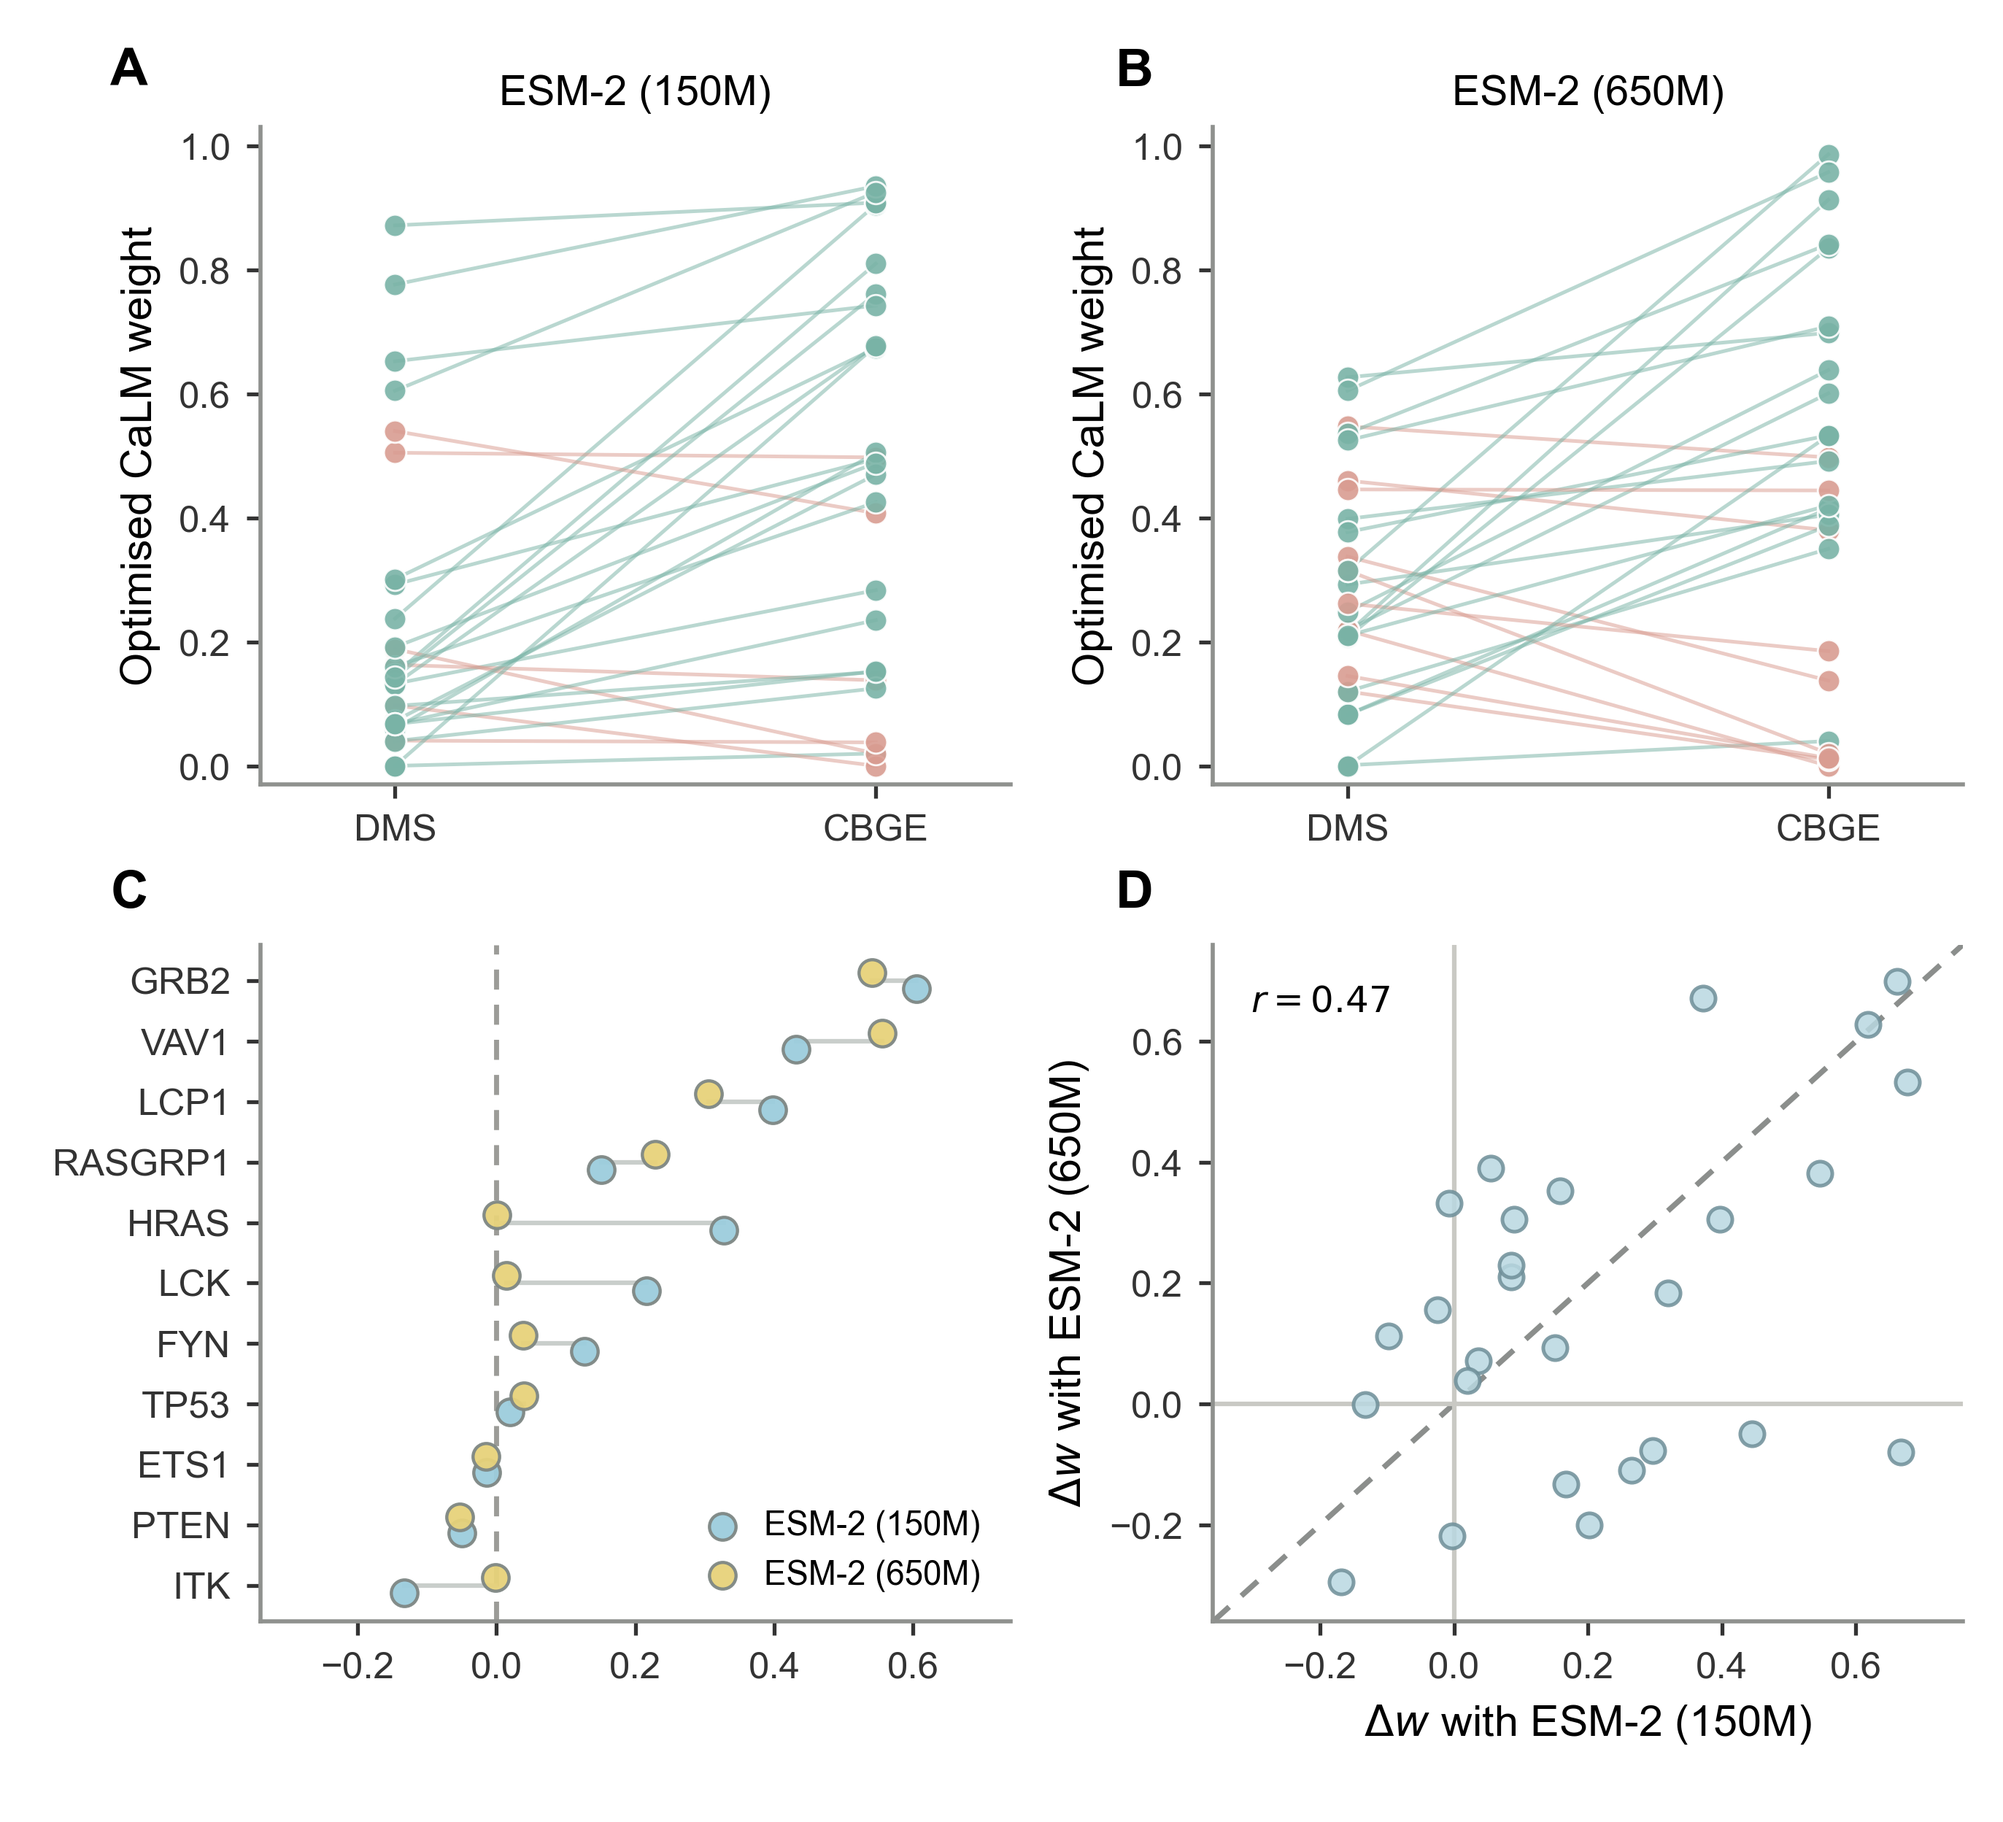
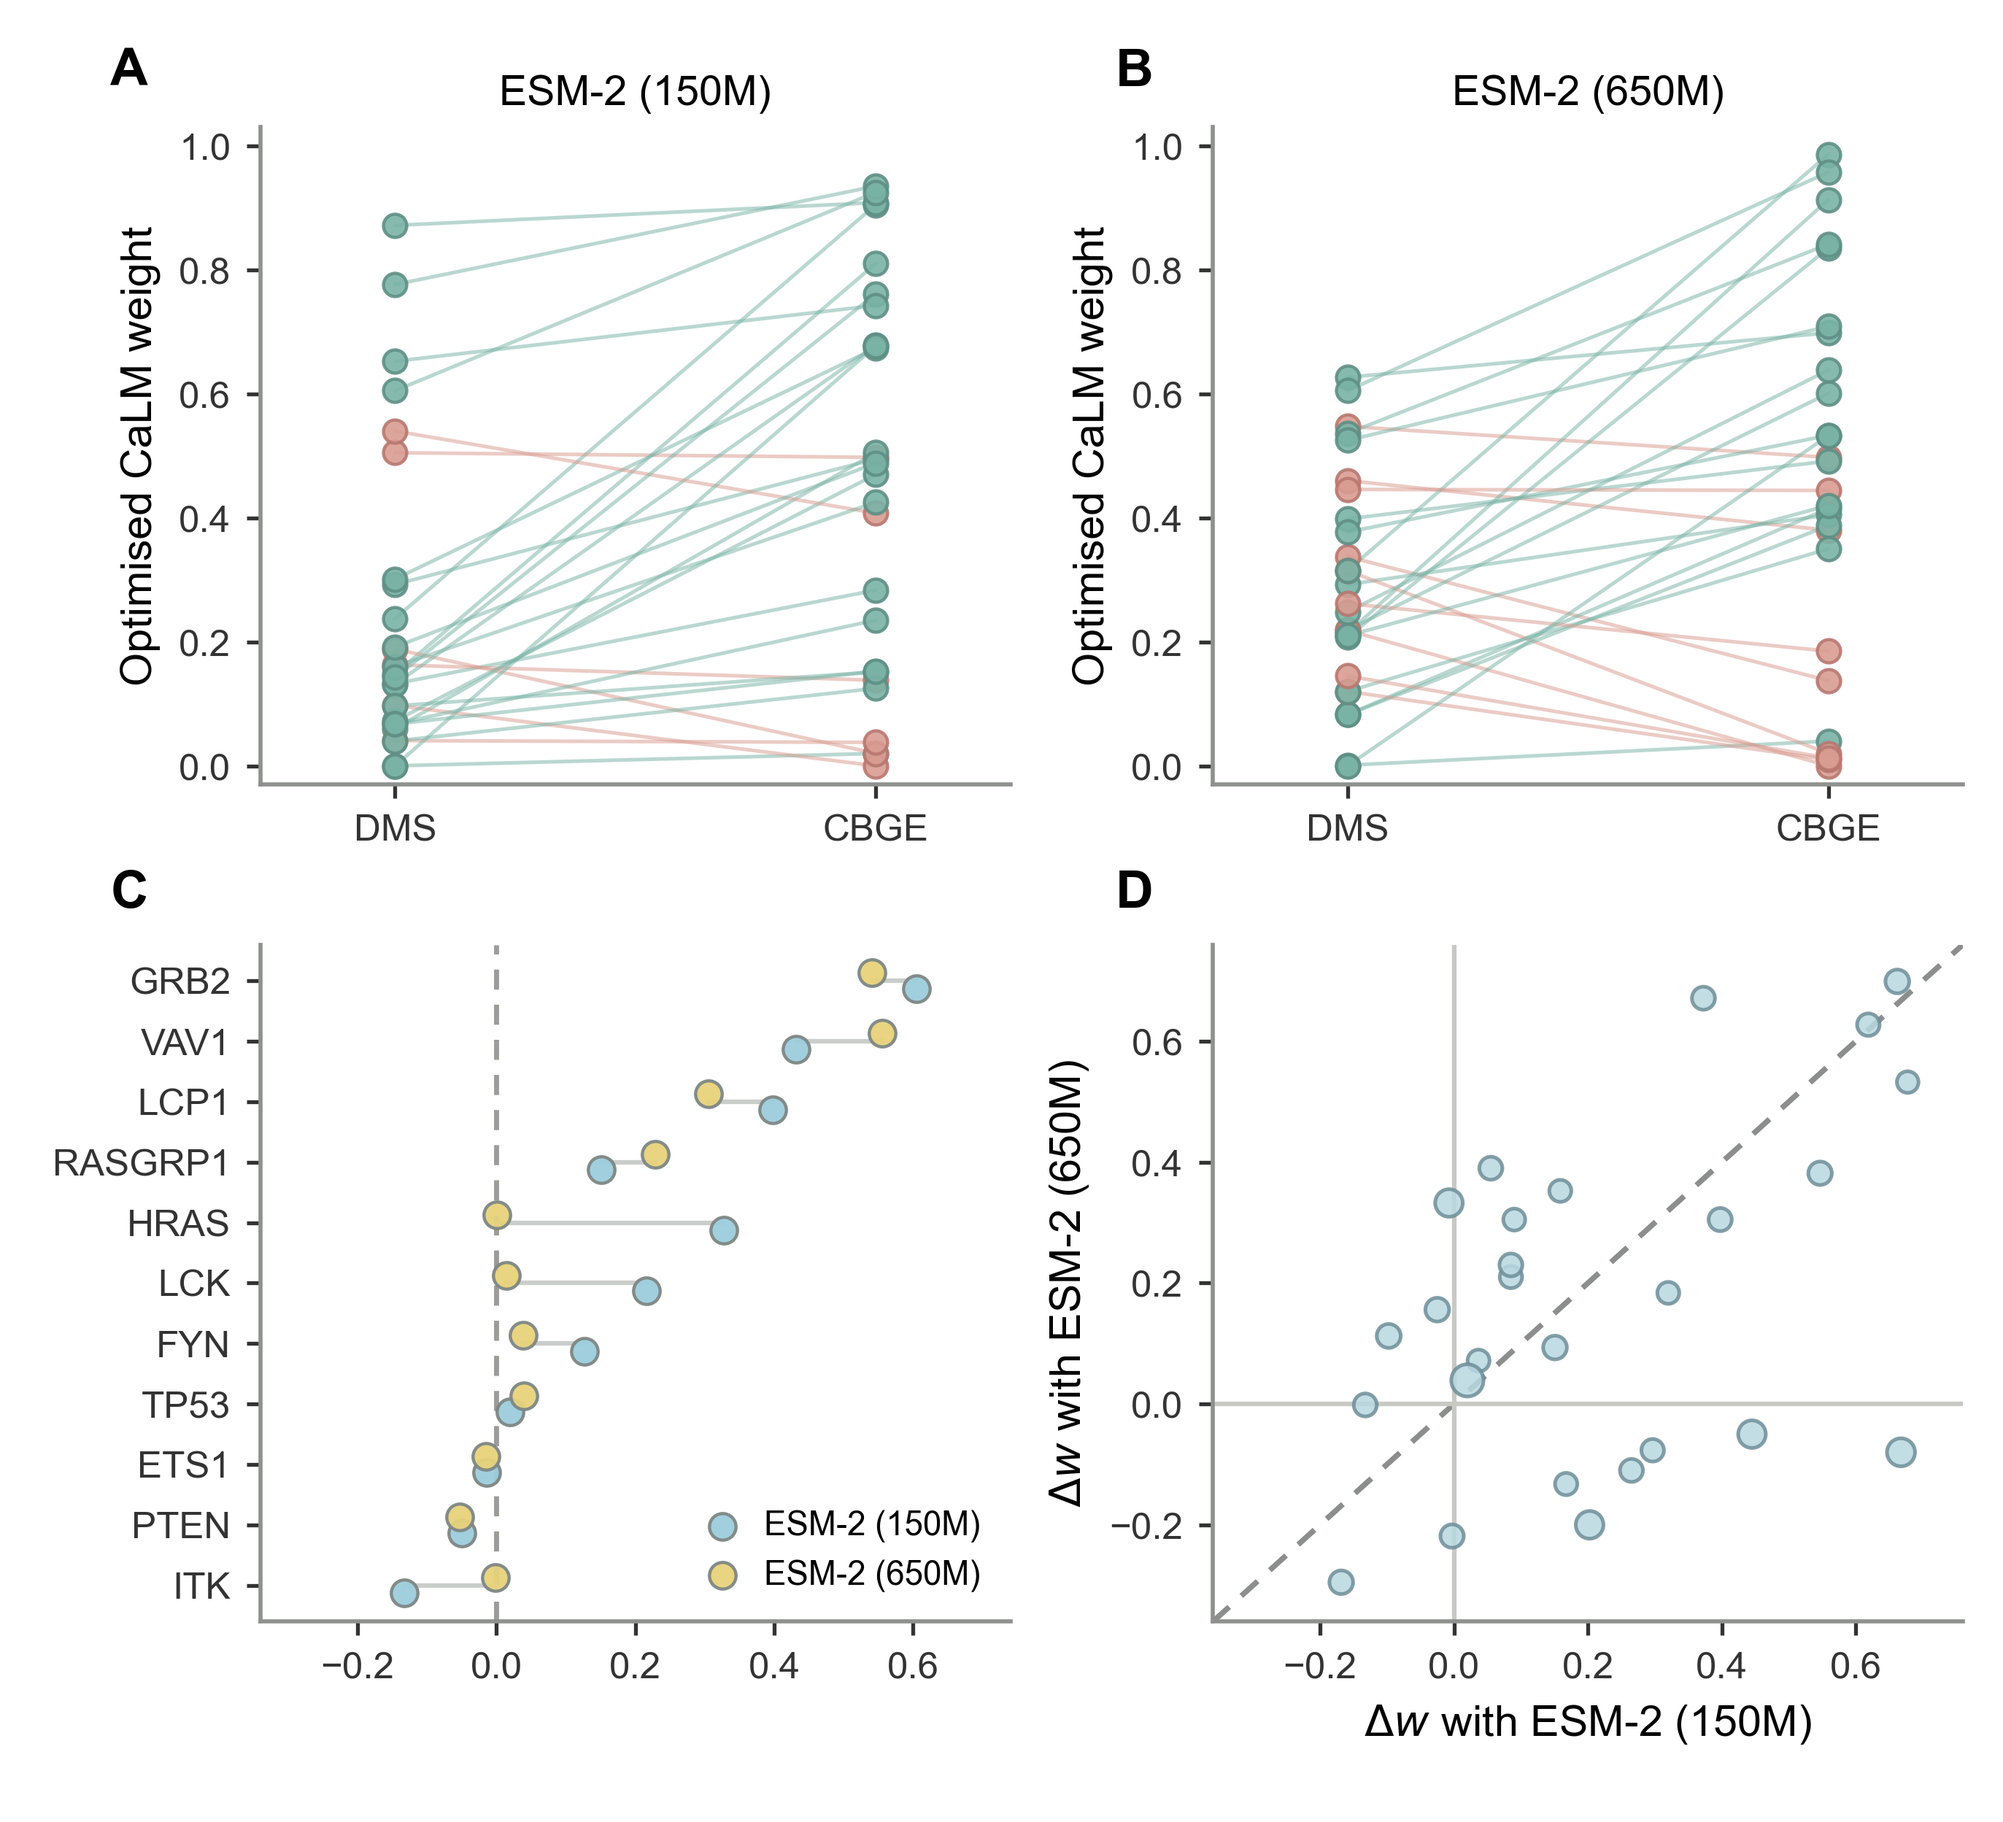
Update Figures

diff --git a/plot/main/fig6.py b/plot/main/fig6.py
@@ -30,7 +30,7 @@ GENE_POINT = "#A9BEC6"
 GENE_LINE = "#5F5F5B"
 LOWESS_LINE = "#9FCFB7"
 SAGE = "#C7DCC1"
-YELLOW = "#E9DFA7"
+YELLOW = "#F3EBC4"
 LILAC = "#D8CAE8"
 TEAL = "#A9D8D1"
 
@@ -106,6 +106,7 @@ def scatter_with_fit(
     color: str,
     stat_mode: str = "ols",
     show_lowess: bool = False,
+    show_stats: bool = True,
 ) -> None:
     reg = df.dropna(subset=[x_col, y_col, "n"]).copy()
     size = np.clip(np.sqrt(reg["n"].to_numpy(float)) * 4.2, 10, 48)
@@ -143,17 +144,18 @@ def scatter_with_fit(
         note = rf"$\rho={rho:.2f}$" + "\n" + p_math(float(rho_p)) + "\n" + rf"$\beta_{{OLS}}={slope:.3f}$"
     else:
         note = rf"$\beta={slope:.3f}$" + "\n" + p_math(float(pval)) + "\n" + rf"$R^2={r2:.2f}$"
-    ax.text(
-        0.03,
-        0.96,
-        note,
-        transform=ax.transAxes,
-        ha="left",
-        va="top",
-        fontsize=7.2,
-        color=TEXT,
-        bbox=dict(boxstyle="round,pad=0.18", facecolor=(1, 1, 1, 0.78), edgecolor="none"),
-    )
+    if show_stats:
+        ax.text(
+            0.03,
+            0.96,
+            note,
+            transform=ax.transAxes,
+            ha="left",
+            va="top",
+            fontsize=7.2,
+            color=TEXT,
+            bbox=dict(boxstyle="round,pad=0.18", facecolor=(1, 1, 1, 0.78), edgecolor="none"),
+        )
     format_ax(ax, "both")
 
 
@@ -271,6 +273,7 @@ def top_gene_bar_panel(
     bar_left: float = 0.0,
     label_inside: bool = False,
     show_n: bool = True,
+    show_values: bool = True,
 ) -> None:
     top = df.sort_values(metric, ascending=False).head(n).iloc[::-1].copy()
     y = np.arange(len(top))
@@ -279,7 +282,7 @@ def top_gene_bar_panel(
         y,
         widths,
         left=bar_left,
-        color=BAR_BLUE,
+        color=YELLOW,
         edgecolor=EDGE,
         linewidth=0.85,
         height=0.66,
@@ -295,22 +298,23 @@ def top_gene_bar_panel(
     else:
         ax.set_xlim(*xlim)
         label_offset = (xlim[1] - xlim[0]) * 0.018
-    for yi, (_, row) in zip(y, top.iterrows()):
-        if label_inside:
-            x_text = float(row[metric]) - label_offset
-            ha = "right"
-        else:
-            x_text = float(row[metric]) + label_offset
-            ha = "left"
-        ax.text(
-            x_text,
-            yi,
-            f"{fmt.format(row[metric])}" + (f"  n={int(row['n'])}" if show_n else ""),
-            va="center",
-            ha=ha,
-            fontsize=6.8,
-            color="#5F5F5A",
-        )
+    if show_values:
+        for yi, (_, row) in zip(y, top.iterrows()):
+            if label_inside:
+                x_text = float(row[metric]) - label_offset
+                ha = "right"
+            else:
+                x_text = float(row[metric]) + label_offset
+                ha = "left"
+            ax.text(
+                x_text,
+                yi,
+                f"{fmt.format(row[metric])}" + (f"  n={int(row['n'])}" if show_n else ""),
+                va="center",
+                ha=ha,
+                fontsize=6.8,
+                color="#5F5F5A",
+            )
     format_ax(ax, "x")
 
 
@@ -457,9 +461,10 @@ def main() -> None:
         df,
         "esm2_calm_weight",
         "esm2_cross_modal_gain",
-        "Mean CV-selected CaLM weight",
+        "Mean CaLM weight",
         r"$\Delta\mathrm{AUROC}_{+\mathrm{CaLM}}$",
         ROSE,
+        show_stats=False,
     )
     scatter_with_fit(
         ax_b,
@@ -471,6 +476,7 @@ def main() -> None:
         ROSE,
         stat_mode="spearman",
         show_lowess=True,
+        show_stats=False,
     )
     ax_a.set_ylim(-0.15, 0.30)
     ax_b.set_ylim(-0.15, 0.30)
@@ -486,6 +492,7 @@ def main() -> None:
         bar_left=0.0,
         label_inside=True,
         show_n=False,
+        show_values=True,
     )
     top_gene_bar_panel(
         ax_c2,
@@ -497,6 +504,7 @@ def main() -> None:
         n=10,
         bar_left=0.0,
         show_n=False,
+        show_values=True,
     )
 
     for ax, label in zip([ax_a, ax_b, ax_c1, ax_c2], list("ABCD")):

diff --git a/plot/main/fig7.py b/plot/main/fig7.py
@@ -36,6 +36,8 @@ COLORS = {
     "650": "#E7D27A",
     "pos": "#79B3A6",
     "neg": "#D99C91",
+    "pos_edge": "#5F8F85",
+    "neg_edge": "#B87870",
     "neutral": "#8E9390",
     "line": "#C9CECB",
     "grid": "#ECEBE7",
@@ -88,9 +90,10 @@ def paired_panel(ax: plt.Axes, df: pd.DataFrame, model: str, color: str) -> None
         cbge = row["mean_calm_weight_CBGE"]
         delta = row["delta_CBGE_minus_DMS"]
         line_color = COLORS["pos"] if delta >= 0 else COLORS["neg"]
+        edge_color = COLORS["pos_edge"] if delta >= 0 else COLORS["neg_edge"]
         ax.plot(x, [dms, cbge], color=line_color, linewidth=0.8, alpha=0.52, zorder=1)
-        ax.scatter(0, dms, s=24, facecolor=line_color, edgecolor="white", linewidth=0.45, alpha=0.9, zorder=2)
-        ax.scatter(1, cbge, s=24, facecolor=line_color, edgecolor="white", linewidth=0.45, alpha=0.9, zorder=3)
+        ax.scatter(0, dms, s=26, facecolor=line_color, edgecolor=edge_color, linewidth=0.7, alpha=0.9, zorder=2)
+        ax.scatter(1, cbge, s=26, facecolor=line_color, edgecolor=edge_color, linewidth=0.7, alpha=0.9, zorder=3)
 
     ax.set_xlim(-0.28, 1.28)
     ax.set_ylim(-0.03, 1.03)
@@ -162,10 +165,11 @@ def baseline_sensitivity(ax: plt.Axes, df: pd.DataFrame) -> None:
         .reset_index()
         .dropna(subset=["150M", "650M"])
     )
+    sizes = 20 + np.clip(shared["n_variants"].to_numpy(float), 0, 250) * 0.12
     ax.scatter(
         shared["150M"],
         shared["650M"],
-        s=28,
+        s=sizes,
         facecolor="#B9D8E1",
         edgecolor="#6F8F99",
         linewidth=0.8,
@@ -181,8 +185,6 @@ def baseline_sensitivity(ax: plt.Axes, df: pd.DataFrame) -> None:
     ax.set_xlabel(r"$\Delta w$ with ESM-2 (150M)")
     ax.set_ylabel(r"$\Delta w$ with ESM-2 (650M)")
     style_ax(ax)
-    pearson_r = shared["150M"].corr(shared["650M"], method="pearson")
-    ax.text(0.05, 0.94, rf"$r={pearson_r:.2f}$", transform=ax.transAxes, ha="left", va="top", fontsize=8)
 
 
 

diff --git a/plot/README.md b/plot/README.md
@@ -1,7 +1,7 @@
 # Figure scripts
 
 - `main/`: one script per current main figure (`fig2`, `fig3`, `fig5`, `fig6`, and `fig7`)
-- `supplementary/`: explicitly numbered scripts for Supplementary Figs. S1--S10
+- `supplementary/`: explicitly numbered scripts for Supplementary Figs. S1--S9
 
 All scripts read final tables from `Results/` and write PNG files to `Figure/`.
 They do not generate PDF duplicates.
@@ -13,4 +13,3 @@ Supplementary script mapping:
 - `s6_s7.py`: ClinMAVE GoF fold gains and optimised weights
 - `s8.py`: amino-acid probability-alignment control
 - `s9.py`: gene-level PLM-background controls
-- `s10.py`: matched-platform PLM-background concordance

diff --git a/README.md b/README.md
@@ -25,7 +25,7 @@ analysis/               Statistical analyses and model-scoring code
   sensitivity/          Bayesian-optimisation sensitivity analyses
 plot/
   main/                 Main-figure scripts
-  supplementary/        Supplementary-figure scripts for Figs. S1--S10
+  supplementary/        Supplementary-figure scripts for Figs. S1--S9
 Figure/                 Final manuscript figures
 Results/                Final result tables
 ```
@@ -59,7 +59,6 @@ numbering:
 - `plot/supplementary/s6_s7.py`
 - `plot/supplementary/s8.py`
 - `plot/supplementary/s9.py`
-- `plot/supplementary/s10.py`
 
 Scoring utilities:
 
